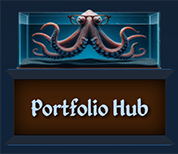
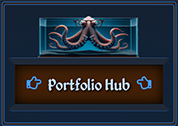
changed the image added a frame and some finger pointers and and href that goes to everything and took off the links because the new hub has all that and it makes my readme page less cluttered

diff --git a/README.md b/README.md
@@ -4,7 +4,7 @@
 
  </div>  
 <h1 align="center">
-    <img src="https://readme-typing-svg.herokuapp.com/?font=Righteous&size=35&center=true&vCenter=true&width=500&height=70&duration=4000&lines=Front+End+Developer;+Greetings!+👋;+I'm+Brett+Baker!;" />
+    <img src="https://readme-typing-svg.herokuapp.com/?font=Righteous&size=35&center=true&vCenter=true&width=500&height=70&duration=4000&lines=Front+End+Developer;+Greetings!+👋;+I'm+Brett+Baker+!;" />
 </h1>
  
 <!-- <h2 align="center" > Front-End Web Developer  </h2> -->
